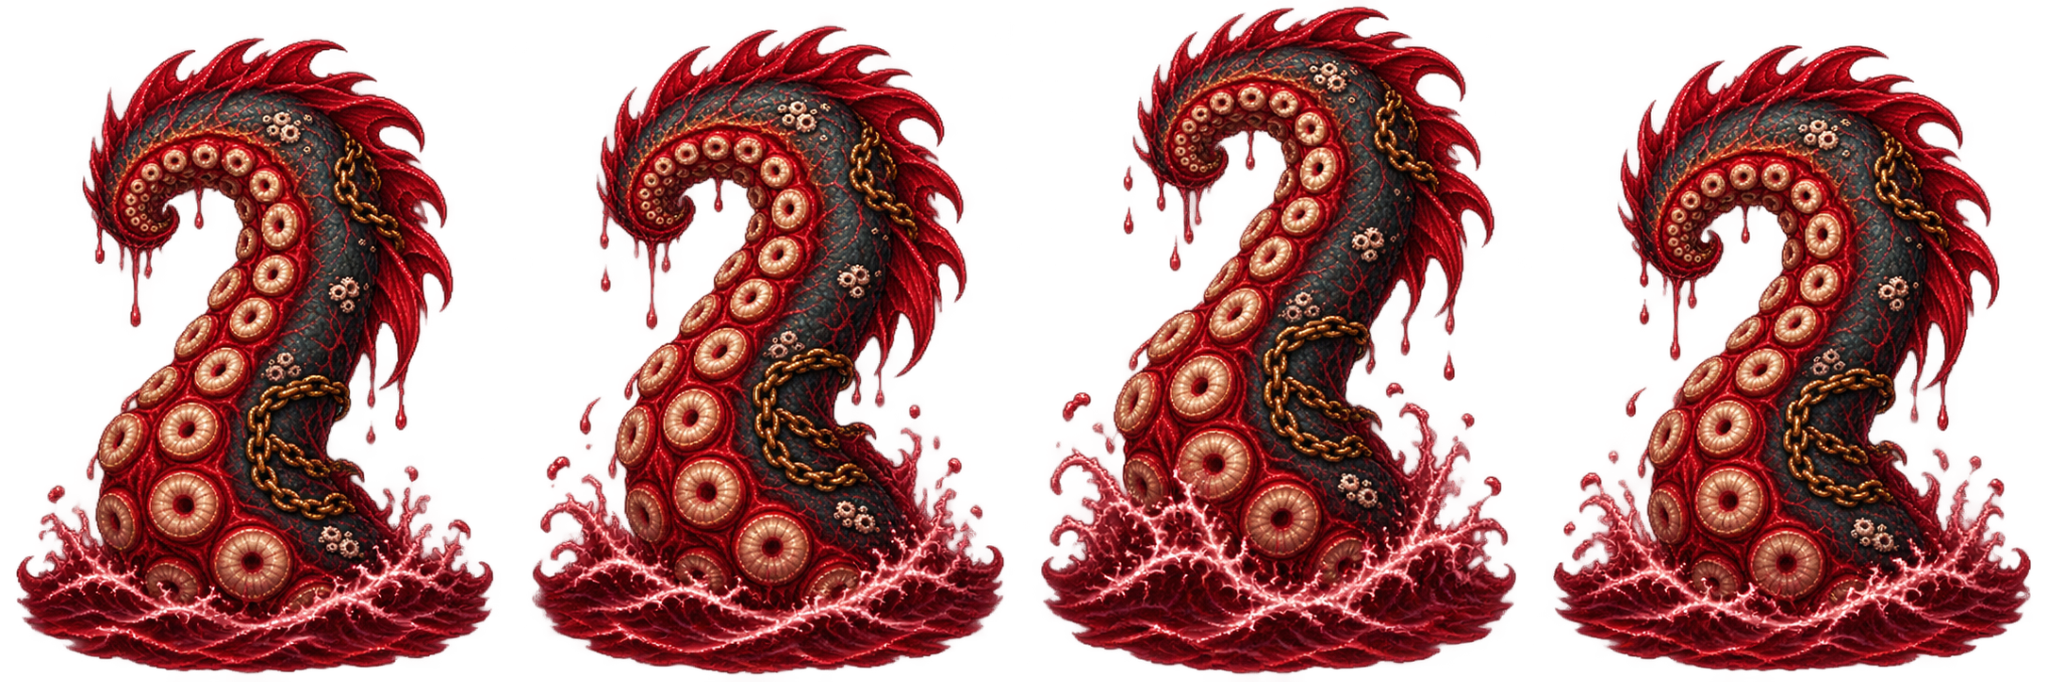
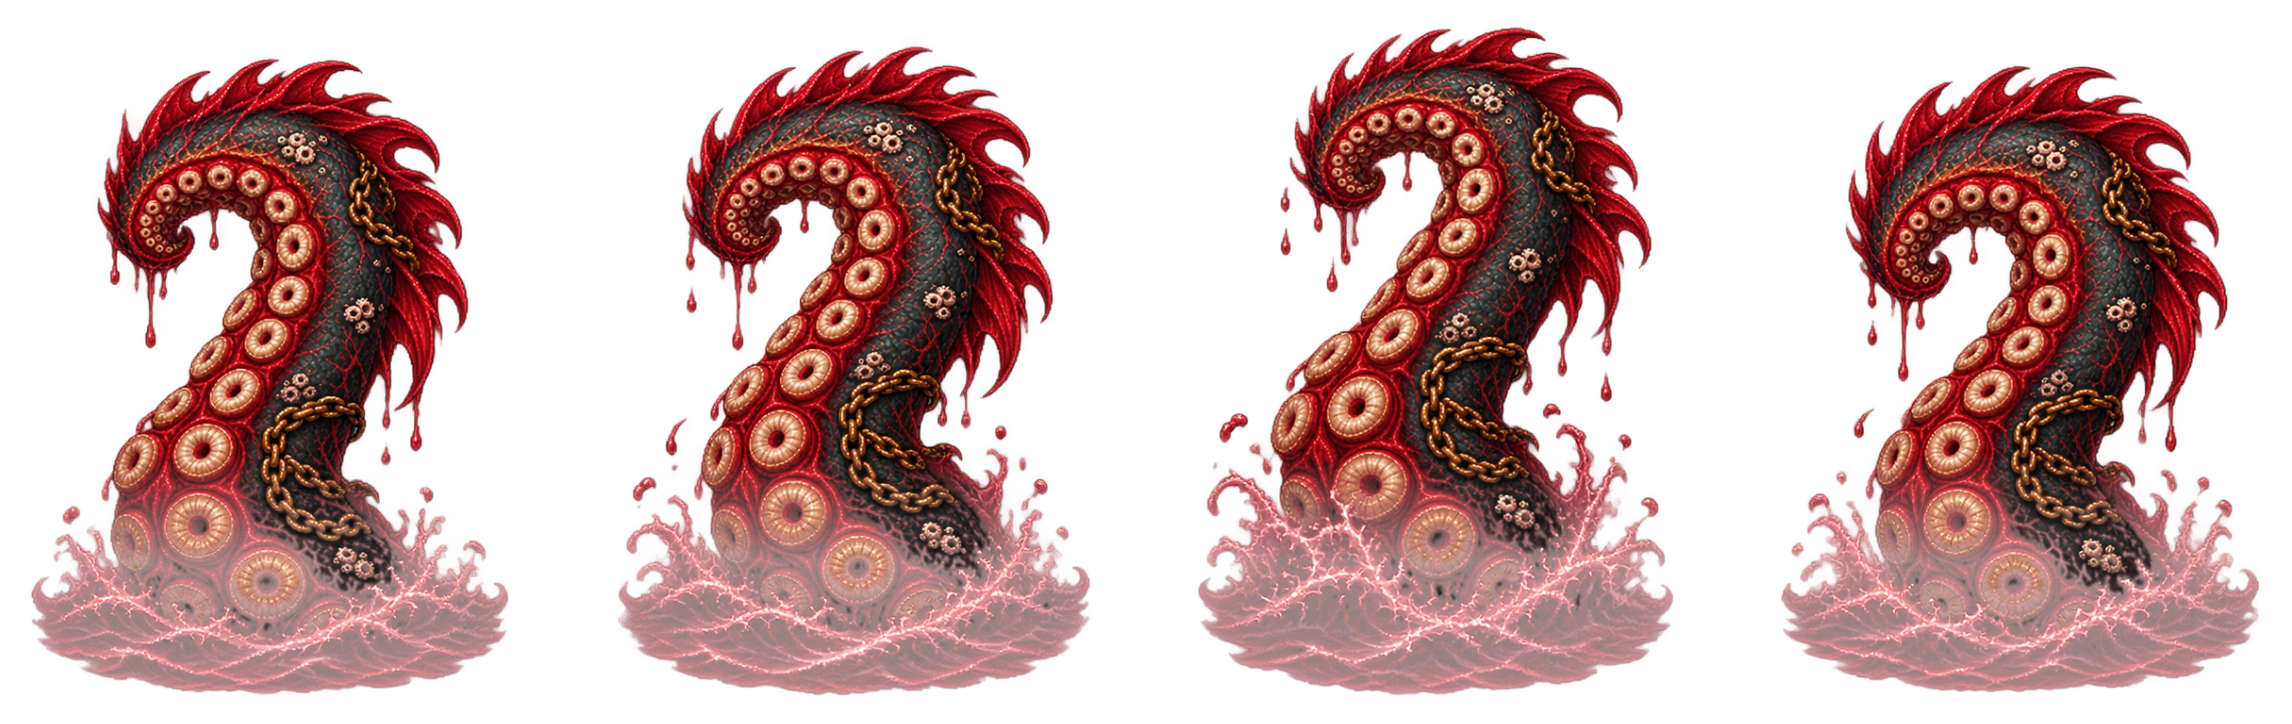
assets: integrate submerged tentacle sheet and animation

diff --git a/sw.js b/sw.js
@@ -1,4 +1,4 @@
-const CACHE_NAME='omar-mar-de-sangue-v88-drowned-submerso-20261027';
+const CACHE_NAME='omar-mar-de-sangue-v89-tentaculo-submerso-20261027';
 const ASSETS=["./","./index.html","./asset-audit.html","./PwaStatus.js","./Game.js","./SeaOceanV3.js","./assets/tiles/sea-v3/sea_chunk_01_base.webp","./assets/tiles/sea-v3/sea_chunk_02_base.webp","./assets/tiles/sea-v3/sea_chunk_03_base.webp","./assets/tiles/sea-v3/sea_chunk_04_base.webp","./SeaEffects.js","./SeaWeather.js","./SeaMenus.js","./SeaPoliticalEvents.js","./SeaIslands.js","./SeaAtlas.js","./SeaGunnery.js","./SeaImpulse.js","./SeaCannonChargeFx.js","./SeaContracts.js","./SeaPerformance.js","./SeaPerformanceCompare.js","./SeaPixelPolish.js","./SeaSaveTransfer.js","./PortUI.js","./PortUI.css","./PortThemeAbyss.css","./style.css","./phaser.min.js","./manifest.webmanifest","./assets/abyss/coral_horror.png","./assets/abyss/cult_barge.png","./assets/abyss/dagon_eye.png","./assets/abyss/dreadnought.png","./assets/abyss/drowned_choir.png","./assets/abyss/kraken.png","./assets/abyss/kraken_tentacle.png","./assets/abyss/shell_guardian.png","./assets/abyss/temple_turtle.png","./assets/fx/cannon_charge_sparks.png","./assets/fx/blast_0.png","./assets/fx/blast_1.png","./assets/fx/blast_2.png","./assets/fx/blast_3.png","./assets/fx/foam_0.png","./assets/fx/foam_1.png","./assets/fx/foam_2.png","./assets/fx/foam_3.png","./assets/fx/gold_0.png","./assets/fx/gold_1.png","./assets/fx/gold_2.png","./assets/fx/gold_3.png","./assets/fx/muzzle_0.png","./assets/fx/muzzle_1.png","./assets/fx/muzzle_2.png","./assets/fx/muzzle_3.png","./assets/fx/muzzle_4f.png","./assets/fx/shrine_glow.png","./assets/fx/smoke_0.png","./assets/fx/smoke_1.png","./assets/fx/smoke_2.png","./assets/fx/smoke_3.png","./assets/fx/splash_0.png","./assets/fx/splash_1.png","./assets/fx/splash_2.png","./assets/fx/splash_3.png","./assets/fx/splash_4f.png","./assets/fx/splinters_0.png","./assets/fx/splinters_1.png","./assets/fx/splinters_2.png","./assets/fx/splinters_3.png","./assets/fx/splinters_4f.png","./assets/fx/violet_0.png","./assets/fx/violet_1.png","./assets/fx/violet_2.png","./assets/fx/violet_3.png","./assets/islands/island_daegon.png","./assets/islands/island_demeter.png","./assets/islands/island_monastery.png","./assets/islands/island_reef.png","./assets/islands/island_ruin.png","./assets/islands/island_wreck.png","./assets/items/treasure_chest.png","./assets/items/treasure_coin.png","./assets/items/treasure_crate.png","./assets/menu_bg.png","./assets/ui/hud-helm-landscape.png","./assets/ui/hud-combat-landscape.png","./assets/sprites/enemy_admiral.png","./assets/sprites/enemy_bombard.png","./assets/sprites/enemy_corsair.png","./assets/sprites/enemy_court_ship.png","./assets/sprites/enemy_galleon.png","./assets/sprites/enemy_ram.png","./assets/sprites/enemy_spectral.png","./assets/player/mar_de_sangue_navio_proa_baixo_20_evolucoes.png","./assets/tiles/sea_base.png","./assets/tiles/sea_blood.png","./assets/tiles/sea_foam.png","./assets/tiles/sea_mist.png","./assets/ui/command_console.png","./assets/ui/command_console_analog.png","./assets/v15/beast_coral.png","./assets/abyss/dagon.png","./assets/v15/beast_eel_swim.webp","./assets/v15/beast_drowned.png","./assets/v15/beast_kraken.png","./assets/v15/beast_tentacle.png","./assets/v15/fx_frame_00.png","./assets/v15/fx_frame_01.png","./assets/v15/fx_frame_02.png","./assets/v15/fx_frame_03.png","./assets/v15/fx_frame_04.png","./assets/v15/fx_frame_05.png","./assets/v15/fx_frame_06.png","./assets/v15/fx_frame_07.png","./assets/v15/fx_frame_08.png","./assets/v15/fx_frame_09.png","./assets/v15/fx_frame_10.png","./assets/v15/fx_frame_11.png","./assets/v15/fx_frame_12.png","./assets/v15/fx_frame_13.png","./assets/v15/fx_frame_14.png","./assets/v15/fx_frame_15.png","./assets/v15/ship_admiral.png","./assets/v15/ship_blood.png","./assets/v15/ship_chapel.png","./assets/v15/ship_flagship.png","./assets/v15/ship_merchant.png","./assets/v15/ship_ram.png","./assets/v15/ship_royal.png","./assets/v15/ship_sloop.png","./assets/v15/ship_spectral.png","./assets/v15/ship_wrecked.png","./icons/icon-192.png","./icons/icon-512.png"];
 self.addEventListener('install',event=>event.waitUntil(caches.open(CACHE_NAME).then(c=>c.addAll(ASSETS)).then(()=>self.skipWaiting())));
 self.addEventListener('activate',event=>event.waitUntil(caches.keys().then(keys=>Promise.all(keys.filter(k=>k!==CACHE_NAME && k.startsWith('omar-mar-de-sangue')).map(k=>caches.delete(k)))).then(()=>self.clients.claim())));

diff --git a/Game.js b/Game.js
@@ -294,9 +294,10 @@ class SeaBoot extends Phaser.Scene {
             frameWidth:512, frameHeight:682, endFrame:3
         });
         // O novo Dagon usa exclusivamente a textura dagon-animated.
-        // Tentáculo: folha RGBA original de quatro quadros horizontais (512 × 682).
+        // Tentáculo submerso: 4 quadros RGBA (543 × 724), espaçados por 40 px.
+        // Transparência parcial da água preservada no PNG fornecido.
         this.load.spritesheet('tentacle-animated', 'assets/v15/beast_tentacle.png', {
-            frameWidth:512, frameHeight:682, endFrame:3
+            frameWidth:543, frameHeight:724, spacing:40, endFrame:3
         });
         // Cortejo dos Afogados submerso: RGBA original, quatro quadros 512 x 646.
         this.load.spritesheet('drowned-animated', 'assets/v15/beast_drowned.png', {
@@ -817,9 +818,9 @@ class Game extends Phaser.Scene {
         const animated682 = (type==='olho_dagon' && tex==='dagon-eye-animated') ||
             (type==='dagon' && tex==='dagon-animated') ||
             (type==='recife' && tex==='reef-devourer-animated') ||
-            (type==='kraken' && tex==='kraken-animated') ||
-            (type==='tentaculo' && tex==='tentacle-animated');
-        const sourceH = type==='afogados' && tex==='drowned-animated' ? 646 :
+            (type==='kraken' && tex==='kraken-animated');
+        const sourceH = type==='tentaculo' && tex==='tentacle-animated' ? 724 :
+            type==='afogados' && tex==='drowned-animated' ? 646 :
             type==='coral' && tex==='coral-animated' ? 644 :
             animated682 ? 682 : (this.textures.get(tex).getSourceImage().height || 160);
         const supernatural = ['enguia','afogados','coral','recife','caranguejo','tartaruga','tentaculo','kraken','dagon','olho_dagon'].includes(type);
@@ -1243,7 +1244,10 @@ class Game extends Phaser.Scene {
                 if(e.eyeFrame!==frame){e.ship.setFrame(frame);e.eyeFrame=frame;}
             }
             if(e.type==='tentaculo' && e.ship.texture.key==='tentacle-animated'){
-                const frame=Math.floor((t*4+e.visualPhase)%4);
+                // Oscilação natural: 1-2-3-4-3-2 a cada 175 ms.
+                // Altera somente o quadro visual; física e ataques intactos.
+                const sequence=[0,1,2,3,2,1];
+                const frame=sequence[Math.floor((t*1000/175+e.visualPhase)%sequence.length)];
                 if(e.tentacleFrame!==frame){e.ship.setFrame(frame);e.tentacleFrame=frame;}
             }
             if(e.type==='cultista' && e.ship.texture.key==='cult-barge-animated'){
